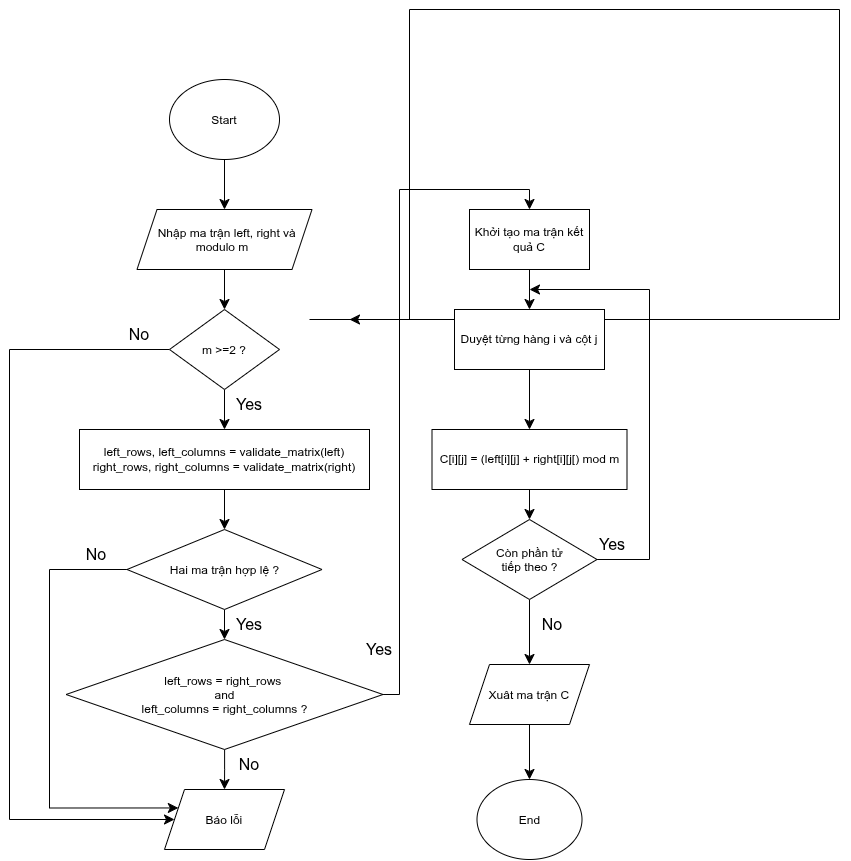
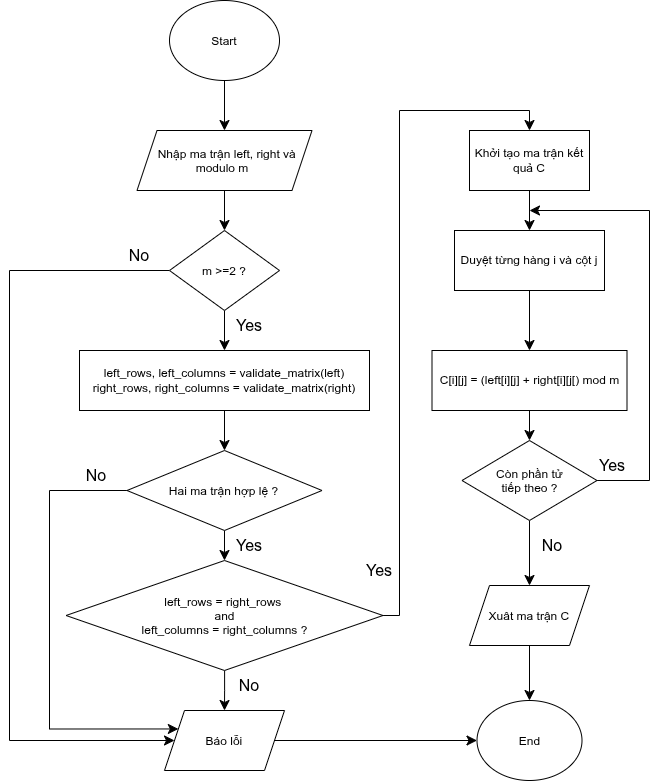
Thêm phần giải thích thuật toán nhân 2 ma trận và tìm định thức ma trận

diff --git a/report/bai1.md b/report/bai1.md
@@ -77,3 +77,31 @@
   </p>
 - Lưu đồ thuật toán: <br>
   ![Thuật toán matrix add mod](../assets/matrix_add_modulo.png)
+
+### 2. matrix_multiply_mod(left, right, modulus):
+
+- Hàm matrix_multiply_mod dùng để nhân hai ma trận với kích thước phù hợp theo modulo m, kết quả đầu ra gồm các phần tử chuẩn hóa từ 0 đến m-1
+- Lưu đồ thuật toán:
+  ![Thuật toán matrix multiply mod](../assets/multiply_matrix_modulo.png)
+
+### 3. \_determinant_unchecked() và determinant():
+
+- Hàm \_determinant_unchecked(matrix) dùng thuật toán Bariess để tính định thức của ma trận vuông có phần tử nguyên
+- Thuật toán sử dụng phương pháp khử ma trận và phép chia chính xác để hạn chế sự xuất hiện của phân số trong quá trình tính toán. Mục đích thuật toán là dùng các phép biến đổi ma trận để biến ma trận ban đầu thành ma trận tam giác trên
+- Thuật toán này lựa chọn 1 phần tử pivot p = A[k][k] khác 0 lần lượt nằm trên đường chéo chính, nếu pivot đó bằng 0 thì ta sẽ phải đổi hàng, kéo theo sự thay đổi dấu của định thức
+- Nếu toàn bộ các phần tử trên cột k từ hàng k trở xuống đều bằng 0 thì định thức ma trận bằng 0
+- Sau khi tìm được pivot hợp lệ thì ta sẽ cập nhật các phần tử nằm phía dưới, bên phải pivot theo công thức:<br>
+  ![Bareiss](../assets/Bareiss.png)
+- Sau khi đã hoàn thành biến đổi ma trận ban đầu thành ma trận tam giác trên thì định thức ma trận được tính theo công thức:
+  <p align="center">
+    <strong>det(A) = (-1)^m . A'nn</strong>
+    Với m là số lần đổi hàng
+        n là kích thước ma trận vuông
+        A' là ma trận tam giác trên sau khi biến đổi
+  </p>
+- Lưu đồ thuật toán: <br>
+  ![determinant](../assets/det1.png)
+
+- Còn hàm determinant(matrix) đơn giản là kiểm tra ma trận vuông đầu vào có hợp lệ không rồi gọi hàm \_determinant_unchecked(matrix) để tính định thức
+- Lưu đồ thuật toán: <br>
+  ![determinant](../assets/det2.png)
